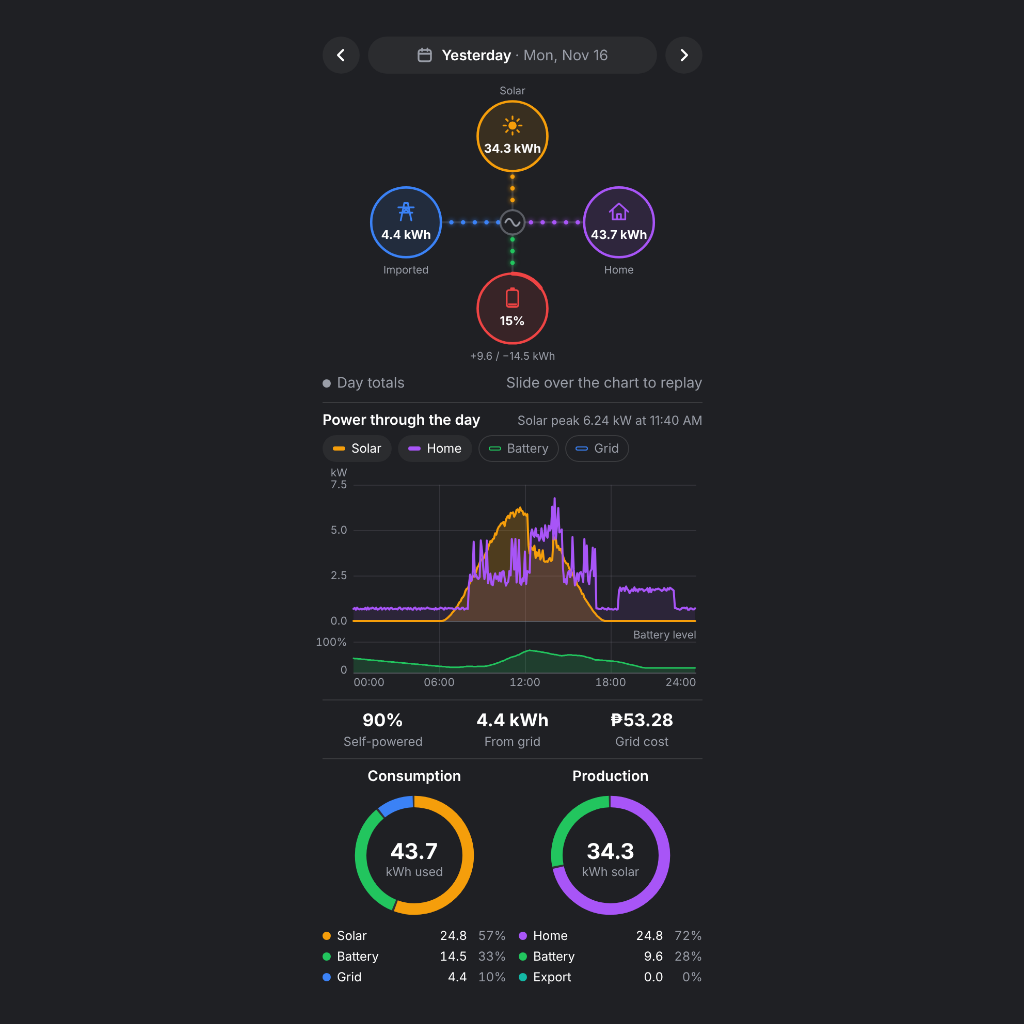
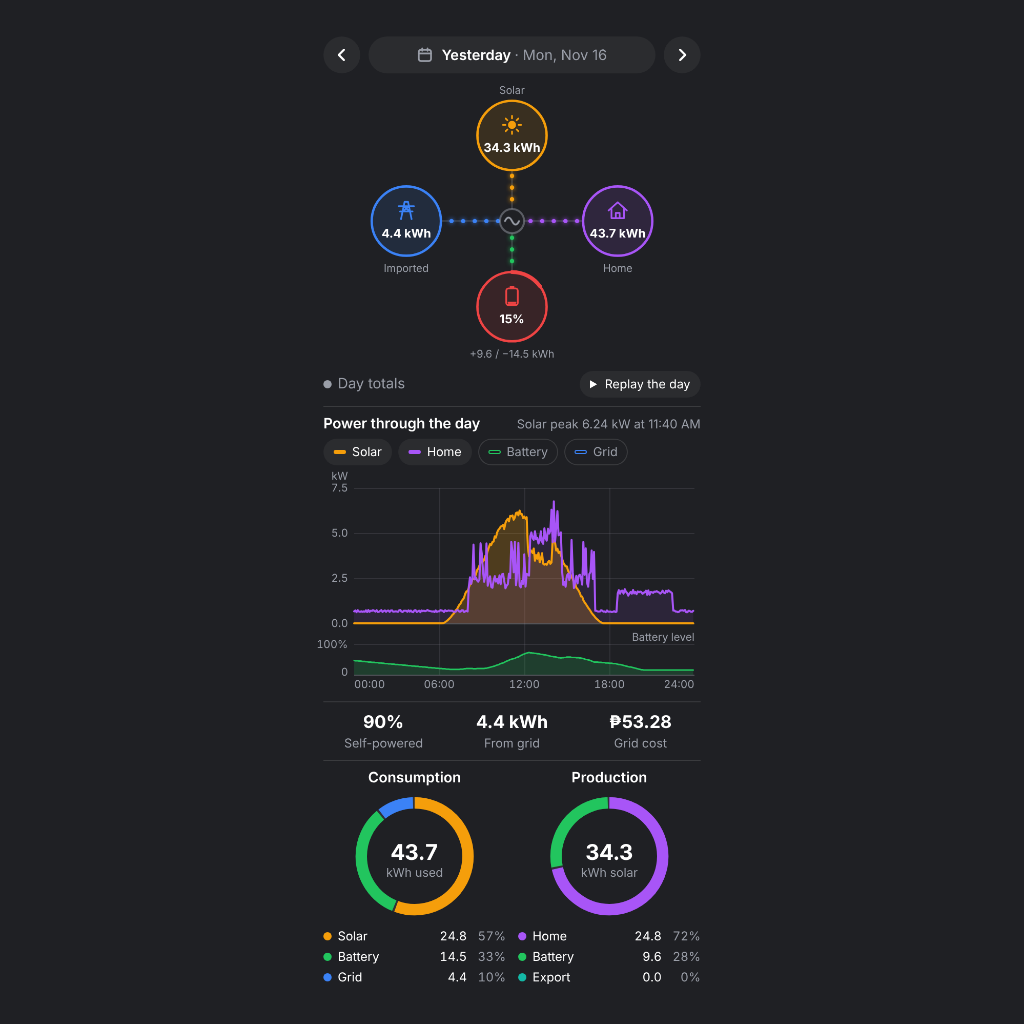
Energy day widget: replay the day and entrance animations
A Replay button sweeps the picked moment through the day while the flow
diagram follows. A new day slides in, the rings sweep in, the totals count
up and the live end of today's lines pulses.

Claude-Session: https://claude.ai/code/session_01QMcRBn5aRjgNeYpDVqBDRK

diff --git a/widgets/energy-day/public/index.html b/widgets/energy-day/public/index.html
@@ -139,7 +139,36 @@
       #mode.outage { color: var(--c-outage); font-weight: 600; }
       #mode.outage .dot { background: var(--c-outage); }
       @keyframes blinkdot { 50% { opacity: 0.35; } }
-      #hint { flex: none; text-align: right; }
+      #replay {
+        flex: none;
+        display: inline-flex;
+        align-items: center;
+        gap: 6px;
+        height: 26px;
+        padding: 0 10px 0 8px;
+        border-radius: 13px;
+        font-size: 12px;
+        color: var(--ink);
+        background: rgba(128, 128, 128, 0.12);
+        transition: background 0.25s ease, color 0.25s ease, transform 0.15s ease;
+      }
+      #replay:active { transform: scale(0.94); }
+      #replay svg { width: 10px; height: 10px; fill: currentColor; }
+      #replay .stop { display: none; }
+      #replay.on { background: var(--ink); color: var(--surface); }
+      #replay.on .play { display: none; }
+      #replay.on .stop { display: block; }
+
+      /* a new day slides in from the side it lies on */
+      #body.from-right { animation: from-right 0.45s cubic-bezier(0.2, 0.7, 0.2, 1); }
+      #body.from-left { animation: from-left 0.45s cubic-bezier(0.2, 0.7, 0.2, 1); }
+      #body.pop { animation: pop 0.45s ease-out; }
+      @keyframes from-right { from { opacity: 0; transform: translateX(28px); } }
+      @keyframes from-left { from { opacity: 0; transform: translateX(-28px); } }
+      @keyframes pop { from { opacity: 0; transform: translateY(8px); } }
+      #wrap.loading #pick { animation: waiting 0.9s ease-in-out infinite; }
+      @keyframes waiting { 50% { opacity: 0.5; } }
+      .step:active { transform: scale(0.9); }
 
       /* ---------- power profile ---------- */
       .card {
@@ -180,6 +209,18 @@
       #chart .now { stroke: var(--ink-2); stroke-opacity: 0.6; stroke-width: 1; stroke-dasharray: 2 3; }
       #chart .cross { stroke: var(--ink); stroke-opacity: 0.55; stroke-width: 1; }
       #chart .mark { fill: var(--c); stroke: var(--surface); stroke-width: 2; }
+      #chart .pulse { fill: var(--c); stroke: var(--surface); stroke-width: 1.5; }
+      #chart .pulse-ring {
+        fill: none;
+        stroke: var(--c);
+        stroke-width: 2;
+        opacity: 0;
+        transform-box: fill-box;
+        transform-origin: center;
+        animation: livepulse 1.8s ease-out 1s infinite;
+      }
+      @keyframes livepulse { 0% { transform: scale(0.6); opacity: 0.9; } 100% { transform: scale(2.8); opacity: 0; } }
+      #chart .mark { transition: r 0.15s ease; }
       #chart .draw { stroke-dasharray: 1; stroke-dashoffset: 1; animation: draw 0.9s ease-out forwards; }
       #chart .rise { opacity: 0; animation: rise 0.7s ease-out 0.25s forwards; }
       @keyframes draw { to { stroke-dashoffset: 0; } }
@@ -239,6 +280,14 @@
       .ring tr { transition: opacity 0.2s ease; cursor: default; }
       .ring.dim tr { opacity: 0.4; }
       .ring.dim tr.hot { opacity: 1; }
+      .ring.enter svg { animation: ring-in 0.7s cubic-bezier(0.2, 0.8, 0.3, 1.15) backwards; transform-origin: center; }
+      #ring-p.enter svg { animation-delay: 0.12s; }
+      @keyframes ring-in { from { transform: scale(0.8); opacity: 0; } }
+      .ring.enter tr { animation: row-in 0.4s ease-out backwards; }
+      .ring.enter tr:nth-child(1) { animation-delay: 0.25s; }
+      .ring.enter tr:nth-child(2) { animation-delay: 0.35s; }
+      .ring.enter tr:nth-child(3) { animation-delay: 0.45s; }
+      @keyframes row-in { from { opacity: 0; transform: translateY(6px); } }
       .ring .key { display: inline-block; width: 8px; height: 8px; border-radius: 50%; background: var(--c); margin-right: 6px; }
 
       #message { display: none; padding: 24px 8px; text-align: center; color: var(--ink-2); }
@@ -335,7 +384,11 @@
 
         <div id="status">
           <div id="mode"><span class="dot"></span><span id="mode-text"></span></div>
-          <div id="hint"></div>
+          <button id="replay" aria-label="Replay the day">
+            <svg class="play" viewBox="0 0 10 10"><path d="M2 1 L9 5 L2 9 Z" /></svg>
+            <svg class="stop" viewBox="0 0 10 10"><rect x="1.5" y="1.5" width="7" height="7" rx="1.2" /></svg>
+            <span id="replay-text">Replay the day</span>
+          </button>
         </div>
 
         <div class="card" id="profile">
@@ -410,8 +463,10 @@
         on: { solar: true, load: true, battery: false, grid: false },
         scrub: null,       // index into the profile while a moment is picked
         geo: null,         // chart geometry of the last draw
-        fresh: true        // play the draw-in animation on the next chart draw
+        fresh: true,       // play the draw-in animation on the next chart draw
+        enter: 'pop'       // how the next day comes in: 'from-left', 'from-right', 'pop' or null
       };
+      var replay = null;   // running "replay the day" sweep
       var shown = { solar: 0, grid: 0, battery: 0, load: 0, soc: 0 };
       var shownUnit = 'w';
       var tween = null;
@@ -455,6 +510,23 @@
         if (day === today) return 'Today <i>· ' + text + '</i>';
         if (day === shiftDay(today, -1)) return 'Yesterday <i>· ' + text + '</i>';
         return text;
+      }
+
+      /** Count a number up or down to its new value. */
+      function countTo(node, to, format, animated) {
+        if (node._raf) cancelAnimationFrame(node._raf);
+        if (to === null || to === undefined) { node._v = undefined; node.textContent = '-'; return; }
+        var from = typeof node._v === 'number' ? node._v : 0;
+        if (!animated || from === to) { node._v = to; node.textContent = format(to); return; }
+        var start = null;
+        var step = function (now) {
+          if (start === null) start = now;
+          var t = Math.min(1, (now - start) / 800);
+          node._v = from + (to - from) * (1 - Math.pow(1 - t, 3));
+          node.textContent = format(node._v);
+          if (t < 1) node._raf = requestAnimationFrame(step); else node._v = to;
+        };
+        node._raf = requestAnimationFrame(step);
       }
 
       // ---------- flow diagram ----------
@@ -543,7 +615,7 @@
 
         mode.className = view.outage ? 'outage' : view.kind;
         $('mode-text').textContent = view.outage ? 'Grid outage' : view.text;
-        $('hint').textContent = view.kind === 'moment' ? '' : (p && p.t.length ? 'Slide over the chart to replay' : '');
+        $('replay').style.display = p && p.t.length > 1 ? '' : 'none';
 
         var soc = view.soc === null || view.soc === undefined ? 0 : view.soc;
         var battColor = view.soc === null || view.soc === undefined ? '--c-battery' : (soc < 20 ? '--c-outage' : (soc < 40 ? '--c-solar' : '--c-battery'));
@@ -705,6 +777,17 @@
 
         if (day.nowMinute !== null && day.nowMinute !== undefined) {
           el('line', { class: 'now', x1: x(day.nowMinute), x2: x(day.nowMinute), y1: m.t, y2: axisY }, svg);
+          // the live end of each line pulses
+          SERIES.forEach(function (s) {
+            if (!state.on[s.key]) return;
+            for (var i = p.t.length - 1; i >= 0; i--) {
+              if (p[s.key][i] === null) continue;
+              var at = { cx: x(p.t[i]).toFixed(1), cy: y(p[s.key][i]).toFixed(1), style: '--c: var(' + s.color + ')' };
+              el('circle', Object.assign({ class: 'pulse-ring', r: 4 }, at), svg);
+              el('circle', Object.assign({ class: 'pulse' + (animate ? ' rise' : ''), r: 3 }, at), svg);
+              break;
+            }
+          });
         }
 
         // crosshair, filled in while a moment is picked
@@ -776,12 +859,54 @@
         }, delay);
       }
 
+      // ---------- replay the day ----------
+      function stopReplay() {
+        if (replay) cancelAnimationFrame(replay.raf);
+        replay = null;
+        $('replay').classList.remove('on');
+        $('replay-text').textContent = 'Replay the day';
+      }
+
+      /** Sweep the crosshair through the day; the flow diagram follows. */
+      function startReplay() {
+        var p = state.day && state.day.profile;
+        if (!p || p.t.length < 2) return;
+        clearTimeout(releaseTimer);
+        var n = p.t.length;
+        var duration = Math.max(4000, Math.min(10000, n * 35));
+        var start = null;
+        replay = { raf: 0 };
+        $('replay').classList.add('on');
+        $('replay-text').textContent = 'Stop';
+        var step = function (now) {
+          if (!replay) return;
+          if (start === null) start = now;
+          var f = Math.min(1, (now - start) / duration);
+          var i = Math.min(n - 1, Math.round(f * (n - 1)));
+          if (i !== state.scrub) { state.scrub = i; placeCross(); renderFlow(false); }
+          if (f < 1) replay.raf = requestAnimationFrame(step);
+          else { stopReplay(); release(1500); }
+        };
+        replay.raf = requestAnimationFrame(step);
+      }
+
       // ---------- rings ----------
-      function drawRing(id, total, parts) {
+      function drawRing(id, total, parts, enter, animated) {
         var root = $(id);
         var segs = root.querySelector('.segs');
         var table = root.querySelector('table');
-        root.querySelector('.num').textContent = total === null ? '-' : kwh(total, false);
+        countTo(root.querySelector('.num'), total, function (v) { return kwh(v, false); }, animated);
+        while (table.firstChild) table.removeChild(table.firstChild);
+
+        if (enter && animated) {
+          // start every segment empty at the top, so the ring sweeps in
+          Array.prototype.forEach.call(segs.children, function (seg) {
+            seg.style.transition = 'none';
+            seg.setAttribute('stroke-dasharray', '0 ' + DONUT);
+            seg.setAttribute('stroke-dashoffset', '0');
+          });
+          root.classList.remove('enter');
+        }
         while (table.firstChild) table.removeChild(table.firstChild);
 
         var gap = 1.6; // about 2px of surface between the segments
@@ -793,6 +918,8 @@
         parts.forEach(function (s, n) {
           var seg = segs.children[n] || el('circle', { class: 'seg', cx: 50, cy: 50, r: 42, 'stroke-dasharray': '0 ' + DONUT, 'data-n': n }, segs);
           seg.style.setProperty('--c', 'var(' + s.color + ')');
+          seg.getBoundingClientRect(); // settle the empty state before it grows
+          seg.style.transition = '';
           var len = 0;
           if (s.kwh > 0 && sum > 0) {
             len = Math.max(1.2, room * s.kwh / sum);
@@ -808,6 +935,7 @@
           row.innerHTML = '<td><span class="key" style="--c: var(' + s.color + ')"></span>' + s.name + '</td><td>' + kwh(s.kwh, false) + '</td><td>' + s.pct + '%</td>';
           table.appendChild(row);
         });
+        if (enter && animated) { void root.offsetWidth; root.classList.add('enter'); }
       }
 
       function hookRing(id) {
@@ -827,7 +955,8 @@
         root.addEventListener('pointerleave', function () { hot(null); });
       }
 
-      function renderRings() {
+      function renderRings(enter) {
+        var animated = state.settings.animations !== false;
         var day = state.day;
         var b = day && day.breakdown;
         var show = state.settings.showRings !== false && !!b && (!!b.consumption || !!b.production);
@@ -840,12 +969,12 @@
           { name: 'Solar', color: '--c-solar', kwh: c.solar.kwh, pct: c.solar.pct },
           { name: 'Battery', color: '--c-battery', kwh: c.battery.kwh, pct: c.battery.pct },
           { name: 'Grid', color: '--c-grid', kwh: c.grid.kwh, pct: c.grid.pct }
-        ]);
+        ], enter, animated);
         drawRing('ring-p', p.total, [
           { name: 'Home', color: '--c-home', kwh: p.home.kwh, pct: p.home.pct },
           { name: 'Battery', color: '--c-battery', kwh: p.battery.kwh, pct: p.battery.pct },
           { name: 'Export', color: '--c-export', kwh: p.grid.kwh, pct: p.grid.pct }
-        ]);
+        ], enter, animated);
       }
 
       function renderTiles() {
@@ -853,14 +982,15 @@
         var show = !!day && day.ready && !!day.totals;
         $('tiles').style.display = show ? '' : 'none';
         if (!show) return;
+        var animated = state.settings.animations !== false;
         var self = day.breakdown && day.breakdown.selfPowered;
-        $('t-self').textContent = self === null || self === undefined ? '-' : self + '%';
-        $('t-grid').textContent = kwh(day.totals.buy);
+        countTo($('t-self'), self, function (v) { return Math.round(v) + '%'; }, animated);
+        countTo($('t-grid'), day.totals.buy, kwh, animated);
         if (day.rate > 0) {
-          $('t-third').textContent = money(day.cost, day.currency);
+          countTo($('t-third'), day.cost, function (v) { return money(v, day.currency); }, animated);
           $('t-third-label').textContent = 'Grid cost';
         } else {
-          $('t-third').textContent = kwh(day.totals.sell);
+          countTo($('t-third'), day.totals.sell, kwh, animated);
           $('t-third-label').textContent = 'Exported';
         }
       }
@@ -897,11 +1027,20 @@
         $('diagram').style.display = s.showFlow === false ? 'none' : '';
         $('status').style.display = s.showFlow === false ? 'none' : '';
 
+        var enter = state.enter;
+        state.enter = null;
         renderDates();
         renderFlow(animated);
         drawChart();
         renderTiles();
-        renderRings();
+        renderRings(!!enter);
+
+        if (enter && animated) {
+          var body = $('body');
+          body.classList.remove('from-left', 'from-right', 'pop');
+          void body.offsetWidth;
+          body.classList.add(enter);
+        }
       }
 
       // ---------- wiring ----------
@@ -922,13 +1061,19 @@
           return Homey.api('GET', '/day' + (date ? '?date=' + encodeURIComponent(date) : ''), {}).then(function (data) {
             if (mine !== request) return;
             var changed = !state.day || state.day.day !== data.day;
-            if (changed) { state.scrub = null; state.fresh = true; }
+            if (changed) {
+              stopReplay();
+              state.scrub = null;
+              state.fresh = true;
+              state.enter = !state.day || !state.day.day ? 'pop' : (data.day < state.day.day ? 'from-left' : 'from-right');
+            }
             else if (state.scrub !== null && (!data.profile || state.scrub >= data.profile.t.length)) state.scrub = null;
             state.day = data;
           }).catch(function (err) {
             if (mine !== request) return;
             if (quiet && state.day && state.day.ready) return; // keep what is shown
             var prev = state.day || {};
+            stopReplay();
             state.scrub = null;
             state.day = { ready: false, day: date || prev.day, today: prev.today, error: (err && err.message) || '' };
           }).then(function () {
@@ -976,13 +1121,17 @@
 
         var box = $('chart-box');
         var down = false;
-        box.addEventListener('pointerdown', function (e) { down = true; clearTimeout(releaseTimer); pickAt(e.clientX); });
+        box.addEventListener('pointerdown', function (e) { down = true; stopReplay(); clearTimeout(releaseTimer); pickAt(e.clientX); });
         box.addEventListener('pointermove', function (e) {
+          if (replay) return;
           if (e.pointerType === 'mouse' || down) { clearTimeout(releaseTimer); pickAt(e.clientX); }
         });
         box.addEventListener('pointerup', function (e) { down = false; if (e.pointerType !== 'mouse') release(3500); });
         box.addEventListener('pointercancel', function () { down = false; release(3500); });
-        box.addEventListener('pointerleave', function (e) { if (e.pointerType === 'mouse') release(150); });
+        box.addEventListener('pointerleave', function (e) { if (e.pointerType === 'mouse' && !replay) release(150); });
+        $('replay').addEventListener('click', function () {
+          if (replay) { stopReplay(); release(0); } else startReplay();
+        });
 
         hookRing('ring-c');
         hookRing('ring-p');

diff --git a/CLAUDE.md b/CLAUDE.md
@@ -62,7 +62,10 @@ inverter:
   day's power profile (solar, home, optional battery and grid; battery level
   on its own small scale below) and two rings (what the home ran on, where
   the solar went). The diagram shows live watts for today, the day's kWh for
-  a past day, and the watts of a moment while the chart is scrubbed. Its
+  a past day, and the watts of a moment while the chart is scrubbed. The
+  "Replay the day" button sweeps that moment through the whole day. A new
+  day slides in, the lines draw themselves, the rings sweep in and the
+  numbers count up (all off with the widget's Animations setting). Its
   `api.js` adds `GET /day?date=YYYY-MM-DD`, served by `app.getDayHistory()`
   and the inverter's `getDayHistory()`, which reads DeyeCloud
   `/v1.0/station/history` (granularity 1: frames about every 5 minutes;
